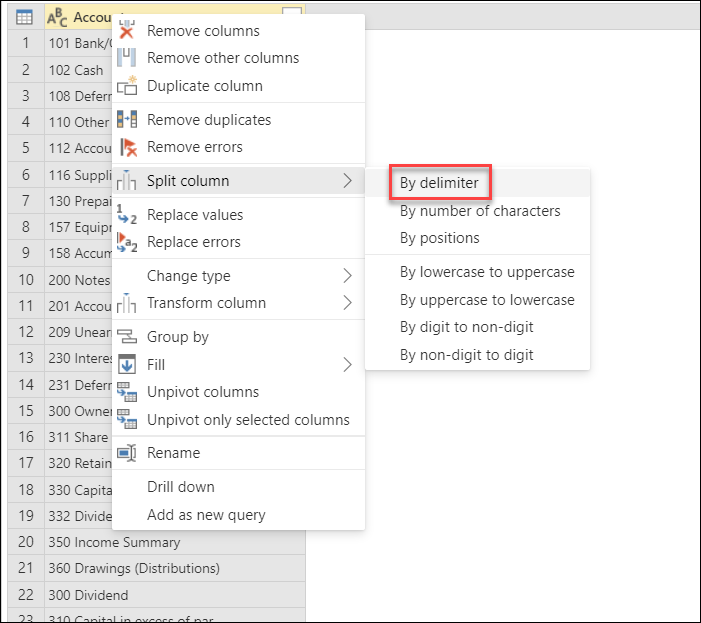
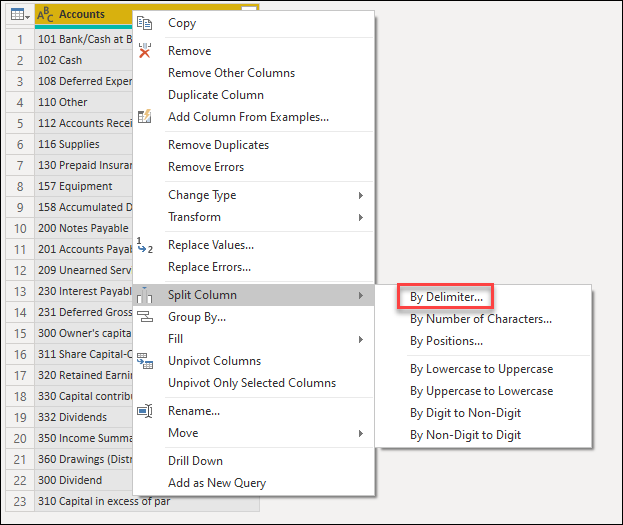
split column by delimiter ready

diff --git a/powerquery-docs/split-columns-delimiter.md b/powerquery-docs/split-columns-delimiter.md
@@ -4,17 +4,73 @@ In this case, the column(s) selected can be split by a delimiter.
 
 ## Where to find the Split columns: by delimiter
 We can find the Split columns: by delimiter option in 3 places:
-1. Right click a column
-2. Home tab
-3. Transform tab
+1. **Home tab** - under the Split column dropdown menu inside the Transform group 
+![image](images/me-split-columns-delimeter-icon-home.png)
+2. **Transform tab** - under the Split column dropdown menu inside the Text column group
+![image](images/me-split-columns-delimeter-icon-transform.png)
+3. **Right click a column** - inside the split columns option
+![image](images/me-split-columns-delimeter-right-click-icon.png)
 
 ## Split columns by delimiter into columns
-Our initial table will be the one below with the columns AAAA. 
+Our initial table will be the one below with only one column for "Accounts". 
 
-image
+![image](images/me-split-columns-delimeter-into-columns-original.png)
+
+This column holds two values:
+1. Account number
+2. Account name 
+
+We want to split this column into 2 columns as the values are delimited by a space: the first space from left to right. 
+To do this, we simply select the column and select the option to split the column by a delimiter. Inside the 'Split column' window, we apply the following configuration:
+
+![images](images/me-split-columns-delimeter-into-columns-split-column-window.png)
+
+* **Select or enter delimiter**: Space
+* **Split at**: Left-most delimiter
+
+The result of that operation will give us a table with the two columns that we are expecting:
+
+![images](images/me-split-columns-delimeter-into-columns-final.png)
+
+>[!Note]
+>Power Query will split the column into as many columns as needed. The name of the new columns will contain the same name of the original column and a suffix, a dot and a number that represents the splitted section of the column, will be appended to the name of the new columns. 
 
 ## Split columns by delimiter into rows
-Our initial table will be the one below with the columns AAAA. 
+Our initial table will be the one below with the columns 'Cost Center' and 'Accounts'. 
 
-image
+![images](images/me-split-columns-delimeter-into-rows-original.png)
 
+The 'Accounts' column has values in pairs separated by a comma, and the pairs are separated by a semicolon. Our goal is to split this column into new rows by using the semicolon as the delimiter.
+To do that, we select the 'Accounts' column and select the option to split the column by a delimiter. Inside the 'Split column' window, we apply the following configuratiton:
+
+![image](images/me-split-columns-delimeter-into-rows-split-column-window.png)
+
+* **Select or enter delimiter**: Semicolon
+* **Split at**: Each occurrence of the delimiter
+* **Split into**: Rows
+
+The result of that operation will give us a table with the same amount of columns, but many more rows as the values inside the cells are now in their own cells as shown below:
+
+![image](images/me-split-columns-delimeter-into-rows-final.png)
+
+### Final Split
+
+Our table still requires one last split column operation. We need to split the 'Accounts' column by the first comma that it finds. This will create a column for the Account Name and another one for the Account Number.
+
+To do that, we select the 'Accounts' column and apply the Split column by delimiter operation. Insidee the 'Split column' window, we apply the following configuration:
+
+![images](images/me-split-columns-delimeter-into-rows-into-columns-split-window.png)
+
+* **Select or enter delimiter**: Comma
+* **Split at**: Each occurrence of the delimiter
+
+The result of that operation will give us a table with the three columns that we are expecting. We then rename the columns as follows:
+
+Previous Name | New Name 
+--------------|----------
+Accounts.1 | Account Name
+Accounts.2 | Account Number
+
+Our final table looks as follows:
+
+![image](images/me-split-columns-delimeter-into-rows-into-columns-final.png)
